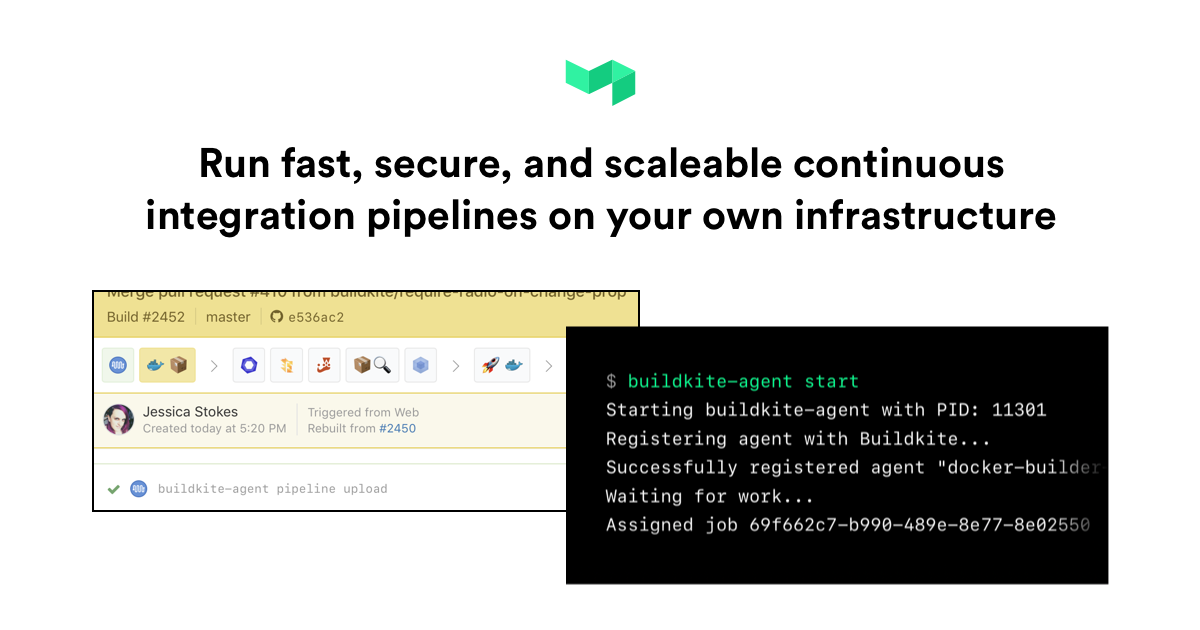
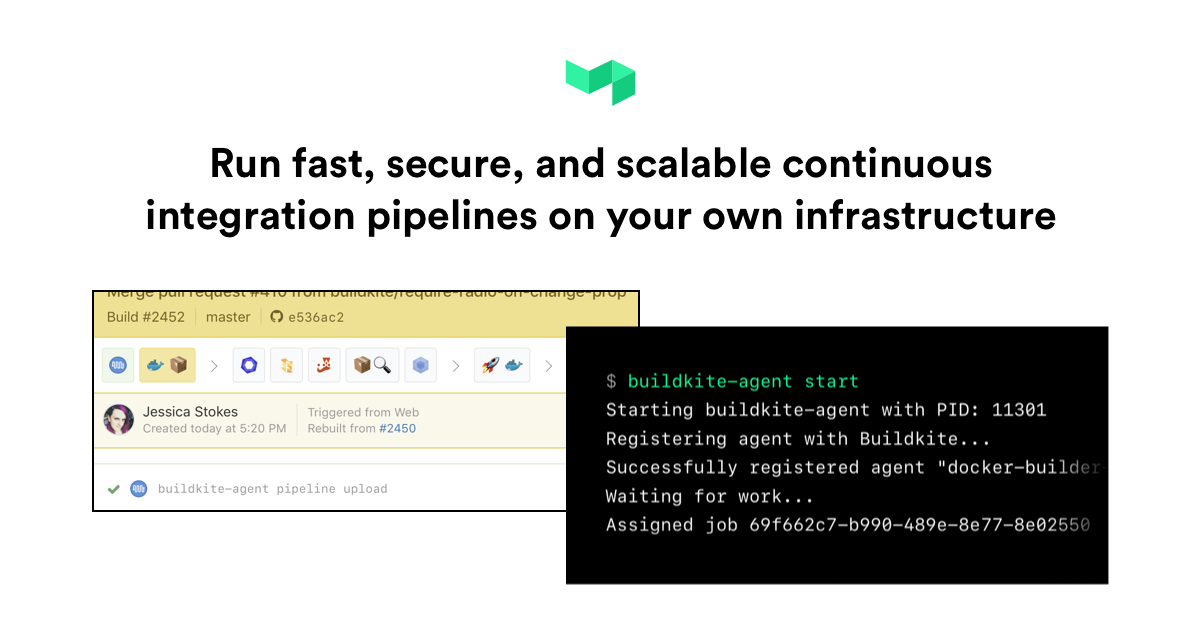
Spell check all the things

Changed region(s): [[0.1542, 0.2111, 0.8325, 0.3016]]

diff --git a/pages/case-studies/_data.js b/pages/case-studies/_data.js
@@ -30,7 +30,7 @@ export const shopify = {
   words: (
     <React.Fragment>
       <p><a href="https://shopify.com/" rel="nofollow">Shopify</a> is a global ecommerce platform powering more than 500,000 online stores, and in 2016 they served over 100 million shoppers. They are based in Ottawa, Canada, but have a global presence with over 900 engineers.</p>
-      <p>Having outgrown their previous hosted CI provider, Shopify needed to reduce their build times from 25 minutes to less than 5 minutes. At the same time, they were scaling their engineering team from 300 to 900 and expanding across multiple timezones.</p>
+      <p>Having outgrown their previous hosted CI provider, Shopify needed to reduce their build times from 25 minutes to less than 5 minutes. At the same time, they were scaling their engineering team from 300 to 900 and expanding across multiple time zones.</p>
       <p>Buildkite enabled Shopify to auto-scale their build servers to match their engineering teams’ peak demand, and they now run almost 10,000 concurrent build agents. Buildkite’s agent architecture allowed them to take full advantage of cloud cost reduction features, providing a much larger compute capacity for the same cost, and allowed them to smoothly transition from AWS to Google Cloud.</p>
       <p>In the face of 300% team growth, Shopify has maintained their targets of keeping build times under 5 minutes, and have been able to apply the same scaling techniques to their key Android and iOS projects.</p>
     </React.Fragment>
@@ -71,7 +71,7 @@ export const rea = {
   words: (
     <React.Fragment>
       <p><a href="https://www.rea-group.com/" rel="nofollow">REA Group</a> is a multinational digital advertising business specialising in property. REA’s engineers develop and operate Australia and China’s leading real estate websites <a href="https://www.realestate.com.au/" rel="nofollow">realestate.com.au</a> and <a href="https://myfun.com/" rel="nofollow">myfun.com</a>.</p>
-      <p>Before Buildkite, REA’s engineering teams were using a mix of build systems, spread across a dozen clusters, which created problems of high maintainence costs and bottlenecks. They needed a solution that would give autonomy back to their engineering teams, and allow them to make full use of their AWS and Docker expertise.</p>
+      <p>Before Buildkite, REA’s engineering teams were using a mix of build systems, spread across a dozen clusters, which created problems of high maintenance costs and bottlenecks. They needed a solution that would give autonomy back to their engineering teams, and allow them to make full use of their AWS and Docker expertise.</p>
       <p>In only a few weeks, REA was able to replace a number of Jenkins and Bamboo CI installations with their own autoscaling stack based on Buildkite, AWS and Docker. They found setup time for new build pipelines was reduced from weeks to days, and the centralized cluster greatly reduced their ops overhead.</p>
       <p>Buildkite has helped their teams have faster builds, tighter feedback loops, and easier adoption of new tools and practices. Today, Buildkite powers the majority of builds across their organisation, and is the go-to CI tool for new projects.</p>
     </React.Fragment>

diff --git a/pages/enterprise.js b/pages/enterprise.js
@@ -120,7 +120,7 @@ export default page((props) => (
         <FeatureCell>
           <FeatureTitle>Prioritized Support</FeatureTitle>
           <FeatureDescription>
-            Enterprise customers get priority support, including a dedicated private chat channel and guaranteed response times for high-priority issues.
+            Enterprise customers get priority support, including a dedicated private chat channel and guaranteed response times for high priority issues.
           </FeatureDescription>
         </FeatureCell>
 
@@ -141,13 +141,13 @@ export default page((props) => (
         <FeatureCell>
           <FeatureTitle>Single Sign On</FeatureTitle>
           <FeatureDescription>
-            SSO for provisioning and login is supported for Google, Okta, OneLogin, ADFS (SAML) and custom SAML providers.
+            SSO for provisioning and login is supported for Google, Okta, OneLogin, ADFS (SAML) and custom SAML providers. Also available on the standard plan.
           </FeatureDescription>
         </FeatureCell>
         <FeatureCell>
           <FeatureTitle>Access Control and Teams</FeatureTitle>
           <FeatureDescription>
-            Manage permissions and teams with fine grained access control. And provide your organization with a default team for easy open sharing.
+            Manage permissions and teams with fine grained access control. And provide your organization with a default team for easy open sharing. Also available on the standard plan.
           </FeatureDescription>
         </FeatureCell>
 

diff --git a/pages/index.js b/pages/index.js
@@ -93,7 +93,7 @@ const LogoImages = styled.div`
 export default page((props) => (
   <Page
     headTitle="Buildkite"
-    headDescription="Buildkite is a platform for running fast, secure, and scaleable continuous integration pipelines on your own infrastructure."
+    headDescription="Buildkite is a platform for running fast, secure, and scalable continuous integration pipelines on your own infrastructure."
     {...props}
   >
     <section>
@@ -103,7 +103,7 @@ export default page((props) => (
         for all your software projects
       </PositioningStatement>
       <ExplanationStatement>
-        Buildkite is a platform for running fast, secure, and scaleable continuous integration pipelines on your own infrastructure.
+        Buildkite is a platform for running fast, secure, and scalable continuous integration pipelines on your own infrastructure.
       </ExplanationStatement>
     </section>
 

diff --git a/pages/security.js b/pages/security.js
@@ -169,7 +169,7 @@ export default page((props) => (
 
       <Subsection>
         <SubSectionHeader>Keybase</SubSectionHeader>
-        <SecurityParagraph>Find us on Keybase, where you can symetrically PGP encrypt a message before emailing it to us.</SecurityParagraph>
+        <SecurityParagraph>Find us on Keybase, where you can symmetrically PGP encrypt a message before emailing it to us.</SecurityParagraph>
         <Button
           href="https://keybase.io/buildkite"
         >

diff --git a/pages/contact.js b/pages/contact.js
@@ -87,7 +87,7 @@ export default page((props) => (
         heading="Say Hello!"
         image={sayhelloImage}
         imageAlt="People waving hello"
-        description="For press enquries, or anything else you need, drop us a line and we’ll help."
+        description="For press enquiries, or anything else you need, drop us a line and we’ll help."
         url="mailto:hello@buildkite.com"
         buttonTitle="Email hello@buildkite.com"
       />

diff --git a/pages/about/index.js b/pages/about/index.js
@@ -248,7 +248,7 @@ export default page((props) => (
         heading="Say Hello!"
         image={sayhelloImage}
         imageAlt="People waving hello"
-        description="If you have any questions or queries, don't hestitate to get in touch."
+        description="If you have any questions or queries, don't hesitate to get in touch."
         url="mailto:hello@buildkite.com"
         buttonTitle="Email hello@buildkite.com"
       />
